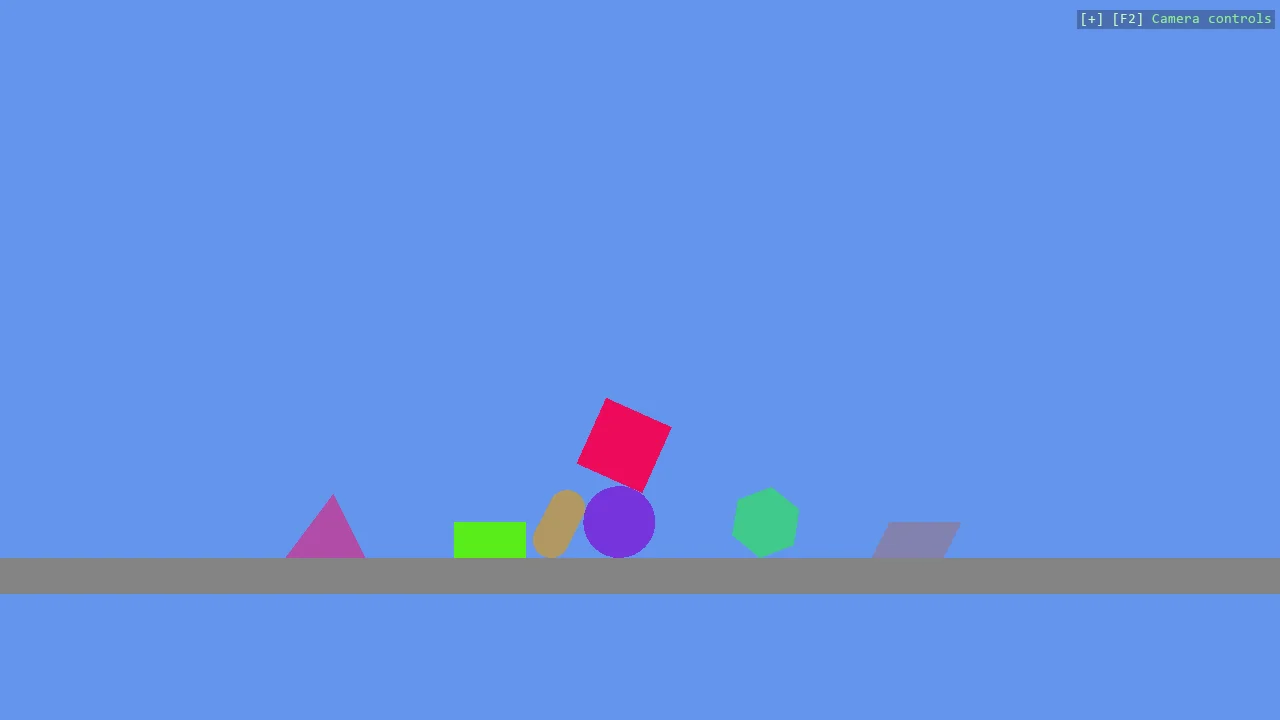
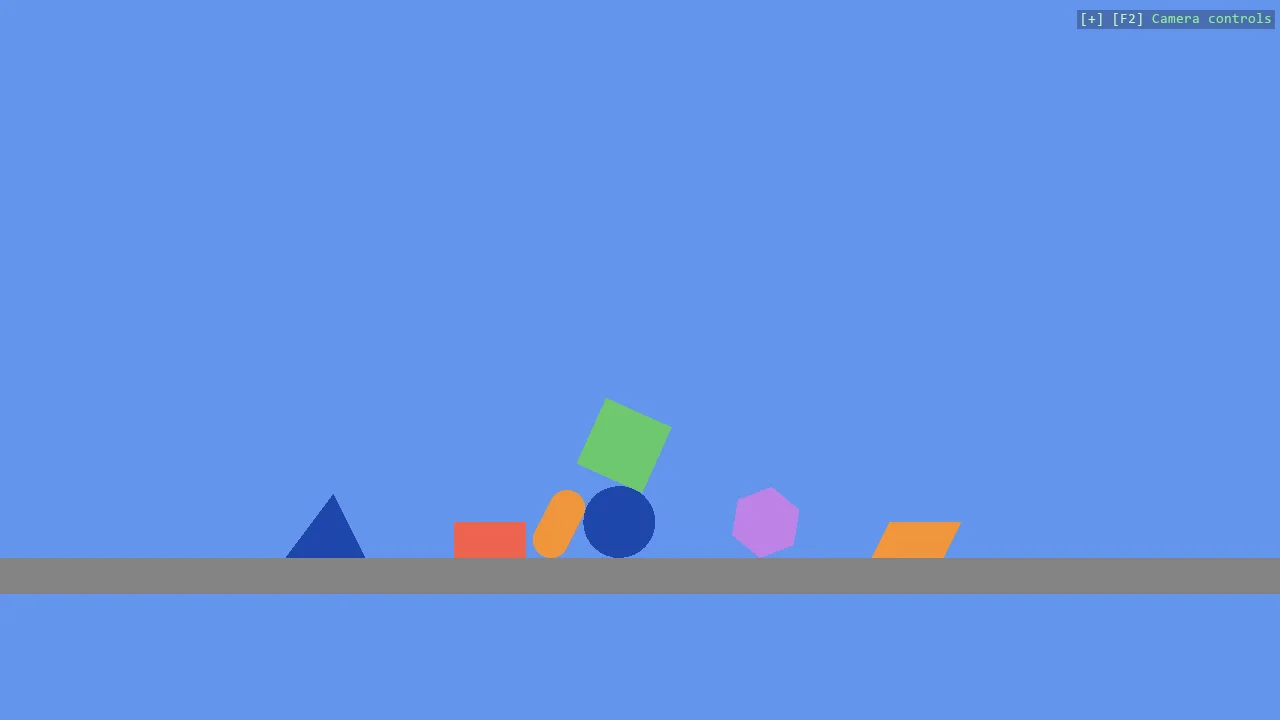
docs: Content updated

diff --git a/docs/manual/code-only/examples/index.md b/docs/manual/code-only/examples/index.md
@@ -103,11 +103,21 @@ Prefer a list? Each level has its own page, linked from the table of contents.
 <div class="row g-4 mb-4">
     <div class="col-xxl-4 col-md-6">
         <div class="card h-100">
-            <img src="media/primitives-3d.webp" class="card-img-top" alt="Screenshot of the Basic 3D Scene (Eight Primitives) example" width="1280" height="720" loading="lazy">
+            <img src="media/primitives-3d.webp" class="card-img-top" alt="Screenshot of the 3D Primitives example" width="1280" height="720" loading="lazy">
             <div class="card-body">
-                <h3 class="card-title h6"><a class="stretched-link text-decoration-none text-body" href="primitives-3d.md">Basic 3D Scene (Eight Primitives)</a></h3>
+                <h3 class="card-title h6"><a class="stretched-link text-decoration-none text-body" href="primitives-3d.md">3D Primitives</a></h3>
                 <p><span class="badge text-bg-secondary">Shapes</span></p>
                 <p class="card-text">Eight of the toolkit's 3D primitives - cube, cone, capsule, sphere, cylinder, teapot, torus and triangular prism - dropped into one scene so the...</p>
+            </div>
+        </div>
+    </div>
+    <div class="col-xxl-4 col-md-6">
+        <div class="card h-100">
+            <img src="media/primitives-2d.webp" class="card-img-top" alt="Screenshot of the 2D Primitives example" width="1280" height="720" loading="lazy">
+            <div class="card-body">
+                <h3 class="card-title h6"><a class="stretched-link text-decoration-none text-body" href="primitives-2d.md">2D Primitives</a></h3>
+                <p><span class="badge text-bg-secondary">Shapes</span></p>
+                <p class="card-text">Create a minimal 2D scene using toolkit helpers and place multiple different primitive shapes.</p>
             </div>
         </div>
     </div>
@@ -123,11 +133,21 @@ Prefer a list? Each level has its own page, linked from the table of contents.
     </div>
     <div class="col-xxl-4 col-md-6">
         <div class="card h-100">
-            <img src="media/material.webp" class="card-img-top" alt="Screenshot of the Material example" width="1280" height="720" loading="lazy">
+            <img src="media/material.webp" class="card-img-top" alt="Screenshot of the 3D Material example" width="1280" height="720" loading="lazy">
             <div class="card-body">
-                <h3 class="card-title h6"><a class="stretched-link text-decoration-none text-body" href="material.md">Material</a></h3>
+                <h3 class="card-title h6"><a class="stretched-link text-decoration-none text-body" href="material.md">3D Material</a></h3>
                 <p><span class="badge text-bg-secondary">Rendering</span></p>
                 <p class="card-text">The four numbers of a material, one per row of cubes: a glossiness sweep from rough to mirror, a metalness sweep from dielectric to metal, and a front...</p>
+            </div>
+        </div>
+    </div>
+    <div class="col-xxl-4 col-md-6">
+        <div class="card h-100">
+            <img src="media/material-2d.webp" class="card-img-top" alt="Screenshot of the 2D Material example" width="1280" height="720" loading="lazy">
+            <div class="card-body">
+                <h3 class="card-title h6"><a class="stretched-link text-decoration-none text-body" href="material-2d.md">2D Material</a></h3>
+                <p><span class="badge text-bg-secondary">Rendering</span></p>
+                <p class="card-text">What each material helper does on a flat shape, in four rows of squares: the flat material a 2D scene wants, the same colours as a lit material, black...</p>
             </div>
         </div>
     </div>
@@ -173,11 +193,11 @@ Prefer a list? Each level has its own page, linked from the table of contents.
     </div>
     <div class="col-xxl-4 col-md-6">
         <div class="card h-100">
-            <img src="media/give-me-cube-body.webp" class="card-img-top" alt="Screenshot of the Give Me a Cube example" width="1280" height="720" loading="lazy">
+            <img src="media/sync-script.webp" class="card-img-top" alt="Screenshot of the SyncScript - moving a body every frame example" width="1280" height="720" loading="lazy">
             <div class="card-body">
-                <h3 class="card-title h6"><a class="stretched-link text-decoration-none text-body" href="give-me-cube-body.md">Give Me a Cube</a></h3>
+                <h3 class="card-title h6"><a class="stretched-link text-decoration-none text-body" href="sync-script.md">SyncScript - moving a body every frame</a></h3>
                 <p><span class="badge text-bg-secondary">Scripts</span></p>
-                <p class="card-text">Add behaviour to an entity with a SyncScript component instead of the update callback of game.Run.</p>
+                <p class="card-text">A cube driven in a circle by a SyncScript, which is the ordinary way to run code every frame.</p>
             </div>
         </div>
     </div>
@@ -203,11 +223,11 @@ Prefer a list? Each level has its own page, linked from the table of contents.
     </div>
     <div class="col-xxl-4 col-md-6">
         <div class="card h-100">
-            <img src="media/sync-script.webp" class="card-img-top" alt="Screenshot of the SyncScript - moving a body every frame example" width="1280" height="720" loading="lazy">
+            <img src="media/give-me-cube-body.webp" class="card-img-top" alt="Screenshot of the Give Me a Cube example" width="1280" height="720" loading="lazy">
             <div class="card-body">
-                <h3 class="card-title h6"><a class="stretched-link text-decoration-none text-body" href="sync-script.md">SyncScript - moving a body every frame</a></h3>
+                <h3 class="card-title h6"><a class="stretched-link text-decoration-none text-body" href="give-me-cube-body.md">Give Me a Cube</a></h3>
                 <p><span class="badge text-bg-secondary">Scripts</span></p>
-                <p class="card-text">A cube driven in a circle by a SyncScript, which is the ordinary way to run code every frame.</p>
+                <p class="card-text">Add behaviour to an entity with a SyncScript component instead of the update callback of game.Run.</p>
             </div>
         </div>
     </div>
@@ -288,16 +308,6 @@ Prefer a list? Each level has its own page, linked from the table of contents.
                 <h3 class="card-title h6"><a class="stretched-link text-decoration-none text-body" href="2d-scene-panels.md">2D Panels and Text</a></h3>
                 <p><span class="badge text-bg-secondary">Shapes</span></p>
                 <p class="card-text">Twenty-four HUD panel recipes side by side, each one property away from the last: fill only, border only, transparent fill over a stripe that proves...</p>
-            </div>
-        </div>
-    </div>
-    <div class="col-xxl-4 col-md-6">
-        <div class="card h-100">
-            <img src="media/primitives-2d.webp" class="card-img-top" alt="Screenshot of the Basic 2D Scene (Multiple Primitives) example" width="1280" height="720" loading="lazy">
-            <div class="card-body">
-                <h3 class="card-title h6"><a class="stretched-link text-decoration-none text-body" href="primitives-2d.md">Basic 2D Scene (Multiple Primitives)</a></h3>
-                <p><span class="badge text-bg-secondary">Shapes</span></p>
-                <p class="card-text">Create a minimal 2D scene using toolkit helpers and place multiple different primitive shapes.</p>
             </div>
         </div>
     </div>

diff --git a/docs/manual/code-only/examples/beginner-examples.md b/docs/manual/code-only/examples/beginner-examples.md
@@ -8,17 +8,19 @@ One new idea at a time, on top of the base scene. Toolkit helpers only, with no 
 
 ## Examples Overview
 
-- [Basic 3D Scene (Eight Primitives)](primitives-3d.md): Eight of the toolkit's 3D primitives - cube, cone, capsule, sphere, cylinder, teapot, torus and triangular prism - dropped into one scene so the shapes, their default sizes and their generated colliders can be compared side by side.
+- [3D Primitives](primitives-3d.md): Eight of the toolkit's 3D primitives - cube, cone, capsule, sphere, cylinder, teapot, torus and triangular prism - dropped into one scene so the shapes, their default sizes and their generated colliders can be compared side by side.
+- [2D Primitives](primitives-2d.md): Create a minimal 2D scene using toolkit helpers and place multiple different primitive shapes.
 - [Basic Gum UI Setup](gum-stride-ui-basic.md): Initialize Gum UI in Stride using the official Gum.Stride runtime and the Stride Community Toolkit.
-- [Material](material.md): The four numbers of a material, one per row of cubes: a glossiness sweep from rough to mirror, a metalness sweep from dielectric to metal, and a front row that builds the same numbers as a MaterialDescriptor feature by feature - which is what CreateMaterial does.
+- [3D Material](material.md): The four numbers of a material, one per row of cubes: a glossiness sweep from rough to mirror, a metalness sweep from dielectric to metal, and a front row that builds the same numbers as a MaterialDescriptor feature by feature - which is what CreateMaterial does.
+- [2D Material](material-2d.md): What each material helper does on a flat shape, in four rows of squares: the flat material a 2D scene wants, the same colours as a lit material, black because nothing in a 2D scene lights them, a checkerboard built in code as a screen material and as a lit textured one, and a translucent overlay drawn over a square.
 - [Post Effects](post-effects.md): Every post effect Stride ships, one key each: bloom, ambient occlusion, screen-space reflections, depth of field, light streaks, lens flare, fog, outline, FXAA, and the vignette, film-grain and dither colour transforms.
 - [Mesh Line](mesh-line.md): A line attached to a sphere, built as a real mesh rather than a debug primitive.
 - [Wav File](wav-file.md): Play a .wav read from disk at runtime, with no compiled asset: LoadWav decodes the file into memory and each CreateInstance is an independent playback.
 - [Procedural Sound](procedural-sound.md): A tone with no sound file: a callback computes the samples as they play.
-- [Give Me a Cube](give-me-cube-body.md): Add behaviour to an entity with a SyncScript component instead of the update callback of game.Run.
+- [SyncScript - moving a body every frame](sync-script.md): A cube driven in a circle by a SyncScript, which is the ordinary way to run code every frame.
 - [Grabber](grabber.md): A gravity gun: click any body to pick it up, carry it on the end of the camera ray, and let go - with its velocity, so a flick throws it.
 - [Physics Materials](physics-materials.md): How to make something bouncy and how to make something slippery.
-- [SyncScript - moving a body every frame](sync-script.md): A cube driven in a circle by a SyncScript, which is the ordinary way to run code every frame.
+- [Give Me a Cube](give-me-cube-body.md): Add behaviour to an entity with a SyncScript component instead of the update callback of game.Run.
 - [Entity Text (Screen-Space)](entity-text.md): A gallery of everything EntityTextComponent can do, one feature per pole: anchoring, shadows, backgrounds, scaling, rotation, opacity, distance fading, several texts on one entity, and HUD text pinned to window corners that survives resizing.
 - [Easing Basics](easing-basics.md): Easing from the ground up, in four lanes that move a disc over the same two seconds: by hand with no easing, by hand with one formula, with the toolkit's easing functions, and with a Tween.
 - [Easing Cheat Sheet](easing.md): Every easing curve in the toolkit on one screen: a tile per curve with its graph, a dot riding the graph on a shared clock, and a slider that moves the way a thing eased by that curve would.
@@ -27,7 +29,6 @@ One new idea at a time, on top of the base scene. Toolkit helpers only, with no 
 - [World Text (In-Scene)](world-text.md): A gallery of everything WorldTextComponent can do, one setting per station: billboarding that stays upright, free billboarding, text fixed in place, text lying flat on the ground, world-unit sizing, depth-tested text hidden behind a wall next to text drawn through it, distance fading, and a glow behind the letters in a few colour combinations - a HUD blue, neon, a readability halo and a soft bloom.
 - [HUD Basics (Step by Step)](hud-basics.md): A simple HUD built in eight steps with ShapeBatch: a panel in a corner, a health bar, an energy dial, a crosshair, labels, a warning panel and a damage flash, and at the end the same HUD moved into files of its own.
 - [2D Panels and Text](2d-scene-panels.md): Twenty-four HUD panel recipes side by side, each one property away from the last: fill only, border only, transparent fill over a stripe that proves it, a fill colour of its own, rounded corners, heavy borders, glows of three strengths and colours, glass, a ship-console panel with corner ticks and a gauge, dashed rings and lines that turn and march, a gradient to the text colour, a gradient to nothing, a panel at a third opacity, a translucent border, an additive glow, a glow on a see-through panel, a hairline border, a twelve-sided badge, a forty-point dashed route, two see-through panels overlapping, and a concave bracket frame.
-- [Basic 2D Scene (Multiple Primitives)](primitives-2d.md): Create a minimal 2D scene using toolkit helpers and place multiple different primitive shapes.
 - [Falling Shapes with Physics Options (2D)](falling-shapes-physics-2d.md): Thirty capsules and a rectangle dropped in a column, as in E01_2D_FallingShapes, with one thing added: each capsule is given its own Body2DComponent with a lower FrictionCoefficient, so the pile spreads wider than with the default.
 - [Box2D Explosion](box2d-explosion.md): A grenade in one call: Explode gives every shape within a radius an impulse away from the centre, per metre of perimeter facing the blast, so a wide slab flies harder than a ball of the same mass.
 - [Basic 2D Scene (Debug Rendering)](debug-render-2d.md): A pile of falling 2D shapes with the physics debug overlays turned on, so what the simulation is actually solving can be seen rather than inferred.

diff --git a/docs/release-notes/index.md b/docs/release-notes/index.md
@@ -164,6 +164,7 @@ Nine namespaces that only mirrored a source folder are folded into the area a us
 | `TextureCanvas.Size = …`, `PixelFormat = …` | Resample the canvas | The setters assigned the field before the resample compared against it, so nothing ever happened. `Resample()` honours its `samplingPattern` and the relative `DrawTexture` overload its destination rectangle. |
 | `SetMaxFPS(0)`, `SetFocusLostFPS(0)` threw | No cap | Zero or less removes the minimum update interval. |
 | `AxialGizmoBase.Create()` returned `null` | `CreateMaterials()`, `void` | Protected; a derived gizmo calls it before building its entities. |
+| `DebugTextDropdown.Draw()`, `Position` | Gone | The dropdown is lines for a `DebugOverlay` section, through `GetLines()`; the standalone path ignored the overlay's keys and nothing used it. |
 ### 🎉 New Features
 
 - `Primitive3D` and `Primitive2D`, closed sets of shape records with factories; the mesh builder and every physics package switch over the same set, so a shape missed by one is a compile error, not a mesh that does not match its collider. The round shapes take a `tessellation`, which the enums could not express.
@@ -174,6 +175,7 @@ Nine namespaces that only mirrored a source folder are folded into the area a us
 - `Skies.Cloudy` and `UseSkybox()` in the Skyboxes package choose the photographed sky for a setup.
 - `entity.AddTo(scene)` and `entity.AddTo(parent)` return the entity, so creation, placement and adding read as one line.
 - `ScreenAnchor`: the overlay, anchored `EntityTextComponent` text and `ShapeBatch.Anchor()` can sit on the middle of an edge or the centre of the screen, not only in a corner; `ScreenAnchor.At(size)` gives the point for any rectangle.
+- `game.AddPhysicsDebug()` in the Bepu package: one entity with the collidable gizmos (P) and the physics debug meshes (F11), both of which act on the whole scene, so a second copy of either script would only toggle the first one back.
 - `Mass` on `Bepu3DPhysicsOptions`, `Bepu2DPhysicsOptions`, `Bullet3DPhysicsOptions` and `Bullet2DPhysicsOptions`: the mass of the fitted collider shape (Bepu) or the rigid body (Bullet), `null` for the engine's default of 1, so a heavier sphere no longer needs a hand-built compound.
 
 ### 🐞 Bug Fixes
@@ -189,11 +191,16 @@ Nine namespaces that only mirrored a source folder are folded into the area a us
 - Create Project: the command-line steps are Windows and Linux tabs. The Linux tab adds the `linux-x64` runtime identifier, `Stride.CommunityToolkit.Linux` as its own step for a distribution's `dotnet` package, the first-build workaround for the asset compiler's signature check (`DOTNET_NUGET_SIGNATURE_VERIFICATION=false`), and the route that builds for Linux from Windows with `StridePlatform`.
 ### 🎓 Examples
 
+- `E02_2D_Material`, the 2D twin of `E02_3D_Material`: what each material helper does on a flat shape, with a checkerboard built in code.
+- The E02 cluster lined up with E01: a twin directly after its 3D example with matching titles (`3D Primitives` / `2D Primitives`, `3D Material` / `2D Material`), the script examples ordered lean to full (`E02_3D_SyncScript`, `E02_3D_GiveMeACube`, then `_SimulationUpdate`), both primitives examples in the five colours of the first examples, and `E02_3D_Primitives` and `E08_2D_DebugRender` on `AddPhysicsDebug()`, so P and F11 do what the overlay says for every shape.
+
 - Every example uses the shape factories; a size that was a `Size` option is now the factory's argument, so `Primitive3D.Cylinder(0.3f, 2.5f)` reads as a radius and a height where `new Vector3(0.3f, 0, 2.5f)` did not.
 - Every program, the F# and VB ones, the gold scenes and the tests run through a scene setup: `new SceneSetup3D().UseBepu().UseSkybox()` for the typical one, and `var sceneSetup = new SceneSetup3D { Camera = CameraSetup.Perspective(position, rotation).WithController(), Ground = …, Profiler = true }` where the program aims its camera or frames its scene, so `Start` holds the scene's own content only; `SceneSetup.None` for the tests.
 - `E06_Box2D`: the keys spawn the factory's named models (`Square`, `Rectangle`, `Circle`, `LargeCircle`, `Triangle`, `Capsule`) instead of looking a kind of shape up; a square and a rectangle are the same kind.
 - `E09_3D_PostEffects`: film grain at `Amount = 0.6f` and `GrainSize = 2f` (was 0.35 and 1), so the G key shows in a screenshot.
 ### 🔧 Engineering
+
+- Three NuGet audit advisories are suppressed in `Directory.Build.props` the way the ImageSharp ones are: two on `System.Security.Cryptography.Pkcs` 8.0.1, reached through `Stride.AssetCompiler`, until Stride moves off that version, and one on the SignalR client 10.0.12 of `E13_SignalR`, until the patched 10.0.13 reaches the feed.
 
 
 ### 💪 Other Changes

diff --git a/docs/manual/code-only/examples/debug-render-2d.md b/docs/manual/code-only/examples/debug-render-2d.md
@@ -7,21 +7,20 @@ slug: debug-render-2d
 
 A pile of falling 2D shapes with the physics debug overlays turned on, so what the simulation is
 actually solving can be seen rather than inferred. P draws the colliders and F11 draws the debug
-meshes. Both come from components on a single entity that has nothing else to do, which is the
-cheapest way to add them to any scene. A spot light is included because 2D scenes are lit like any
-other and look flat without one.
+meshes. Both come from AddPhysicsDebug, one entity with the two scripts; each acts on the whole
+scene, so one entity is all any scene needs. A spot light is included because 2D scenes are lit like
+any other and look flat without one.
 
 The `Program.cs` file shows how to:
 
-- Drawing physics colliders with CollidableGizmoScript
-- Toggling debug meshes with DebugRenderComponentScript
-- Hanging both off one otherwise empty entity
+- Both debug views on one entity with AddPhysicsDebug, the colliders on P and the debug meshes on F11
+- Why one entity is enough, since CollidableGizmoScript and DebugRenderComponentScript act on the whole scene
 - Lighting a 2D scene with a LightSpot
 - Giving each shape its own colour with a flat material
-- Using helpers: SceneSetup2D, Add2DCameraController, Add2DGround, CreatePrimitive
+- Using helpers: SceneSetup2D, Add2DCameraController, Add2DGround, CreatePrimitive, AddPhysicsDebug
 
 ![Basic 2D Scene (Debug Rendering)](media/debug-render-2d.webp)
 
 View on [GitHub](https://github.com/stride3d/stride-community-toolkit/tree/main/examples/code-only/E08_2D_DebugRender).
 
-[!code-csharp[](../../../../examples/code-only/E08_2D_DebugRender/Program.cs?start=1&end=94)]
+[!code-csharp[](../../../../examples/code-only/E08_2D_DebugRender/Program.cs?start=1&end=80)]

diff --git a/docs/manual/code-only/examples/primitives-3d.md b/docs/manual/code-only/examples/primitives-3d.md
@@ -3,7 +3,7 @@ generated: true
 slug: primitives-3d
 ---
 
-# Basic 3D Scene (Eight Primitives)
+# 3D Primitives
 
 Eight of the toolkit's 3D primitives - cube, cone, capsule, sphere, cylinder, teapot, torus and
 triangular prism - dropped into one scene so the shapes, their default sizes and their generated
@@ -17,12 +17,12 @@ The `Program.cs` file shows how to:
 - Sizing a primitive through its factory arguments, such as Primitive3D.Cone(0.5f, 3)
 - Rotating an entity with Transform.Rotation
 - Tagging entities with a name so the scene can be torn down and rebuilt
-- Inspecting generated colliders with CollidableGizmoScript
+- Inspecting the generated colliders and debug meshes with AddPhysicsDebug, on P and F11
 - Adding keyboard instructions as a DebugOverlay section
-- Using helpers: SceneSetup3D, AddSkybox, AddProfiler, CreatePrimitive
+- Using helpers: SceneSetup3D, AddGrabber, AddPhysicsDebug, CreatePrimitive
 
-![Basic 3D Scene (Eight Primitives)](media/primitives-3d.webp)
+![3D Primitives](media/primitives-3d.webp)
 
 View on [GitHub](https://github.com/stride3d/stride-community-toolkit/tree/main/examples/code-only/E02_3D_Primitives).
 
-[!code-csharp[](../../../../examples/code-only/E02_3D_Primitives/Program.cs?start=1&end=104)]
+[!code-csharp[](../../../../examples/code-only/E02_3D_Primitives/Program.cs?start=1&end=98)]

diff --git a/docs/manual/code-only/examples/material-2d.md b/docs/manual/code-only/examples/material-2d.md
@@ -1,0 +1,27 @@
+---
+generated: true
+slug: material-2d
+---
+
+# 2D Material
+
+What each material helper does on a flat shape, in four rows of squares: the flat material a 2D
+scene wants, the same colours as a lit material, black because nothing in a 2D scene lights them,
+a checkerboard built in code as a screen material and as a lit textured one, and a translucent
+overlay drawn over a square.
+
+The `Program.cs` file shows how to:
+
+- CreateFlatMaterial, the colour as given, which is what a 2D scene wants
+- Why a lit CreateMaterial is black in a scene with no light
+- A texture built in code with TextureLoader.FromPixels
+- CreateScreenMaterial, the unlit texture, against the lit CreateTexturedMaterial
+- CreateOverlayMaterial for a translucent shape drawn over another
+- Labelling entities with EntityTextComponent
+- Using helpers: SceneSetup2D, AddEntityTextRenderer, CreatePrimitive
+
+![2D Material](media/material-2d.webp)
+
+View on [GitHub](https://github.com/stride3d/stride-community-toolkit/tree/main/examples/code-only/E02_2D_Material).
+
+[!code-csharp[](../../../../examples/code-only/E02_2D_Material/Program.cs?start=1&end=97)]

diff --git a/docs/manual/physics-extensions/index.md b/docs/manual/physics-extensions/index.md
@@ -46,6 +46,14 @@ A raycast sees colliders only. For what the eye sees under a screen point - a me
 game.AddGrabber();
 ```
 
+### Debug views
+
+- [`AddPhysicsDebug()`](xref:Stride.CommunityToolkit.Bepu.GameExtensions.AddPhysicsDebug(Stride.Games.IGame,System.Nullable{Stride.Core.Mathematics.Color4},System.Boolean,System.Boolean)) - One entity carrying Bepu's two scene-wide debug views: [`CollidableGizmoScript`](xref:Stride.CommunityToolkit.Bepu.CollidableGizmoScript) draws every collider on <kbd>P</kbd>, and [`DebugRenderComponentScript`](xref:Stride.CommunityToolkit.Bepu.DebugRenderComponentScript) turns the physics debug meshes on for every Bepu entity on <kbd>F11</kbd>. Both act on the whole scene, so one entity is all a scene needs; a second copy of either script answers the same key and toggles the first one back.
+
+```csharp
+game.AddPhysicsDebug(gizmoColor: new Color4(0.4f, 0.843f, 0, 0.9f));
+```
+
 Every constraint example carries it, so the constrained bodies can be pulled about and the constraints watched doing their work.
 
 ### Convex hulls

diff --git a/docs/manual/code-only/examples/primitives-2d.md b/docs/manual/code-only/examples/primitives-2d.md
@@ -3,7 +3,7 @@ generated: true
 slug: primitives-2d
 ---
 
-# Basic 2D Scene (Multiple Primitives)
+# 2D Primitives
 
 Create a minimal 2D scene using toolkit helpers and place multiple different primitive shapes.
 Demonstrates entity creation, basic positioning, and attaching the entities to the scene.
@@ -15,8 +15,8 @@ The `Program.cs` file shows how to:
 - Adding entities to a Scene (rootScene)
 - Using helpers: SceneSetup2D
 
-![Basic 2D Scene (Multiple Primitives)](media/primitives-2d.webp)
+![2D Primitives](media/primitives-2d.webp)
 
 View on [GitHub](https://github.com/stride3d/stride-community-toolkit/tree/main/examples/code-only/E02_2D_Primitives).
 
-[!code-csharp[](../../../../examples/code-only/E02_2D_Primitives/Program.cs?start=1&end=43)]
+[!code-csharp[](../../../../examples/code-only/E02_2D_Primitives/Program.cs?start=1&end=44)]

diff --git a/docs/manual/rendering/debug-overlay.md b/docs/manual/rendering/debug-overlay.md
@@ -167,9 +167,6 @@ unscaled pixels overrides the calculation entirely.
 - **Not part of the graphics compositor.** It draws straight to the back buffer after everything else,
   so it is always on top and unaffected by post effects, and it needs nothing registered in the
   compositor.
-- **Not the `DebugTextDropdown.Draw(DebugTextSystem)` path.** A dropdown drawn standalone that way
-  still uses Stride's bitmap text at its own position; hand its `GetLines()` to the overlay instead to
-  get the font, scale, background and hide key.
 - **Not a UI toolkit.** One block of lines in a corner. Anything laid out in the scene wants
   [entity text](entity-text.md) or [world text](world-text.md); anything interactive wants Stride UI
   or the ImGui package.

diff --git a/docs/manual/code-only/examples/debug-render-component.md b/docs/manual/code-only/examples/debug-render-component.md
@@ -16,6 +16,7 @@ The `Program.cs` file shows how to:
 - How this differs from CollidableGizmoScript, which draws the collider
 - Toggling the overlay with its Visible property
 - Comparing mesh against collider when a body misbehaves
+- The one-call form for a whole scene: game.AddPhysicsDebug()
 - Using helpers: SceneSetup3D, AddSkybox, AddProfiler, CreatePrimitive
 
 ![Debug Render Component](media/debug-render-component.webp)

diff --git a/docs/manual/code-only/examples/stride-ui-draggable-window-bullet.md b/docs/manual/code-only/examples/stride-ui-draggable-window-bullet.md
@@ -19,4 +19,4 @@ The `Program.cs` file shows how to:
 
 View on [GitHub](https://github.com/stride3d/stride-community-toolkit/tree/main/examples/code-only/E04_StrideUI_DragAndDrop_Bullet).
 
-[!code-csharp[](../../../../examples/code-only/E04_StrideUI_DragAndDrop_Bullet/Program.cs?start=1&end=124)]
+[!code-csharp[](../../../../examples/code-only/E04_StrideUI_DragAndDrop_Bullet/Program.cs?start=1&end=123)]

diff --git a/docs/manual/code-only/examples/collidable-gizmo.md b/docs/manual/code-only/examples/collidable-gizmo.md
@@ -16,6 +16,7 @@ The `Program.cs` file shows how to:
 - Leaving physics out with IncludePhysics = false
 - Showing or hiding the gizmo with its Visible property
 - Diagnosing a body that does not collide as expected
+- The one-call form for a whole scene: game.AddPhysicsDebug()
 - Using helpers: SceneSetup3D, AddSkybox, AddProfiler, CreatePrimitive
 
 ![Collidable Gizmo](media/collidable-gizmo.webp)
